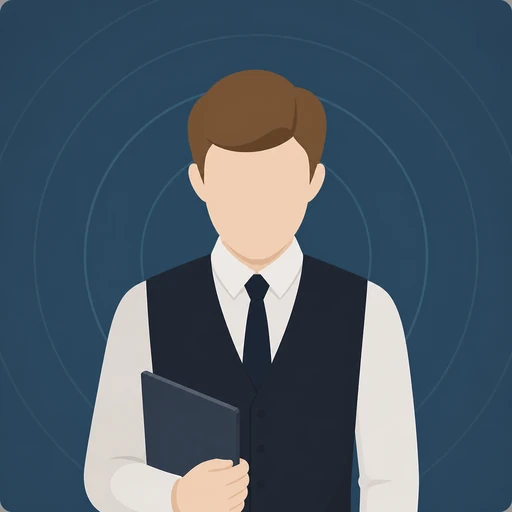
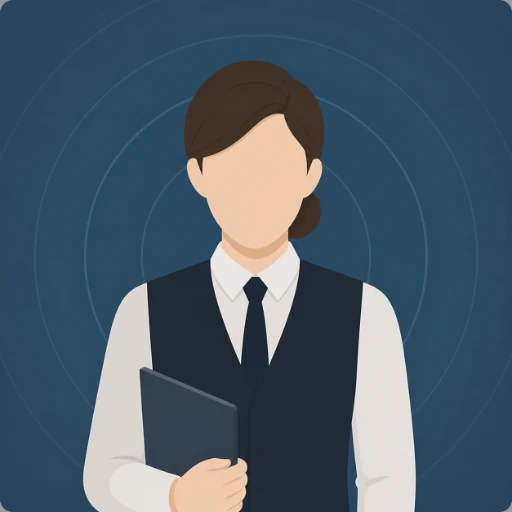
art: rebalance cast portraits and gender references

diff --git a/src/scenes/BootScene.ts b/src/scenes/BootScene.ts
@@ -29,7 +29,7 @@ export class BootScene extends Phaser.Scene {
   }
 
   preload() {
-    // Card art = the man the player is talking to; scenes only for key moments.
+    // Card art = the character the player is talking to; scenes only for key moments.
     for (const id of Object.keys(content.characters)) {
       this.load.image(`portrait:${id}`, `art/portraits/${id}.webp`);
     }

diff --git a/Card_Authoring_Pack__Incident_Aftermath_Endings.md b/Card_Authoring_Pack__Incident_Aftermath_Endings.md
@@ -153,7 +153,7 @@ Entry beat condition: `PLAYER_CAUSED` (drank ∧ self-driving).
   - ES: Tus manos están más firmes de lo que tienen derecho a estar. Dos nombres encabezan tus llamadas recientes: la línea de emergencias, y la persona que arregla las cosas.
   - ZH: 你的双手稳得有些不该。最近通话的最上面是两个名字：急救专线，和那个专门摆平事情的人。
 - `card.incident_stay.left` — EN: Call the emergency line. Now. · VI: Gọi cấp cứu. Ngay. · ES: Llamar a emergencias. Ya. · ZH: 打急救电话。马上。
-- `card.incident_stay.right` — EN: Call the Aide first. · VI: Gọi Trợ lý trước. · ES: Llamar primero al Asistente. · ZH: 先打给助理。
+- `card.incident_stay.right` — EN: Call the Aide first. · VI: Gọi Trợ lý trước. · ES: Llamar primero a la Asesora. · ZH: 先打给助理。
 
 ---
 
@@ -170,7 +170,7 @@ Entry beat condition: `PLAYER_CAUSED` (drank ∧ self-driving).
 - `card.incident_leave.text`
   - EN: Four kilometers later, the phone. The Aide, in the voice kept for real things: "Where are you right now? Something's coming over the police channel — the villa road."
   - VI: Bốn cây số sau, điện thoại reo. Trợ lý, bằng chất giọng chỉ dành cho những chuyện hệ trọng: "Sếp đang ở đâu ngay lúc này? Kênh bộ đàm cảnh sát đang báo có chuyện — đoạn đường khu biệt thự."
-  - ES: Cuatro kilómetros después, el teléfono. El Asistente, con la voz reservada para las cosas reales: «¿Dónde estás ahora mismo? Algo está saliendo por la frecuencia policial — la carretera de la villa.»
+  - ES: Cuatro kilómetros después, el teléfono. La Asesora, con la voz reservada para las cosas reales: «¿Dónde estás ahora mismo? Algo está saliendo por la frecuencia policial — la carretera de la villa.»
   - ZH: 四公里之后，电话响了。助理，用那种只留给要紧事的声音："您现在在哪儿？警用频道里正在报什么——别墅那条路。"
 - `card.incident_leave.left` — EN: Tell the truth. · VI: Nói thật. · ES: Decir la verdad. · ZH: 说实话。
 - `card.incident_leave.right` — EN: "I'm home. Why?" · VI: "Tôi ở nhà. Sao thế?" · ES: «Estoy en casa. ¿Por qué?» · ZH: "我在家。怎么了？"
@@ -194,7 +194,7 @@ Entry beat condition: `ALLY_CAUSED`. The driver is **the Mentor** — the man fr
 - `card.incident_call_b.text`
   - EN: You are home, shoes still on, when the phone rings. The Aide, in the voice kept for real things: "There's been an accident on the villa road. It's ours."
   - VI: Bạn đang ở nhà, giày còn chưa kịp cởi, thì điện thoại reo. Trợ lý, bằng chất giọng chỉ dành cho những chuyện hệ trọng: "Có tai nạn trên đoạn đường khu biệt thự. Là người của chúng ta."
-  - ES: Estás en casa, todavía con los zapatos puestos, cuando suena el teléfono. El Asistente, con la voz reservada para las cosas reales: «Hubo un accidente en la carretera de la villa. Es de los nuestros.»
+  - ES: Estás en casa, todavía con los zapatos puestos, cuando suena el teléfono. La Asesora, con la voz reservada para las cosas reales: «Hubo un accidente en la carretera de la villa. Es de los nuestros.»
   - ZH: 你到了家，鞋还没来得及脱，电话就响了。助理，用那种只留给要紧事的声音："别墅那条路上出事故了。是我们的人。"
 - `card.incident_call_b.left` — EN: "Details. Now." · VI: "Chi tiết. Ngay." · ES: «Detalles. Ya.» · ZH: "细节。马上。"
 - `card.incident_call_b.right` — EN: "Come to the office." · VI: "Đến văn phòng." · ES: «Ven a la oficina.» · ZH: "来办公室。"
@@ -214,7 +214,7 @@ Entry beat condition: `ALLY_CAUSED`. The driver is **the Mentor** — the man fr
 - `card.incident_identity_b.text`
   - EN: "The Mentor's car," the Aide says. "The riverside stretch. A young woman who was walking home." A breath. "He didn't stay. He was at your table two hours ago."
   - VI: "Xe của Người Đỡ Đầu," trợ lý nói. "Đoạn đường ven sông. Một cô gái trẻ đang trên đường đi bộ về nhà." Một hơi thở. "Ông ấy đã không ở lại. Hai tiếng trước ông ấy còn ngồi cùng bàn với sếp."
-  - ES: «El coche del Mentor», dice el Asistente. «El tramo junto al río. Una joven que iba caminando a casa.» Una respiración. «No se quedó. Hace dos horas estaba en tu mesa.»
+  - ES: «El coche del Mentor», dice la Asesora. «El tramo junto al río. Una joven que iba caminando a casa.» Una respiración. «No se quedó. Hace dos horas estaba en tu mesa.»
   - ZH: "是导师的车，"助理说。"沿河那一段。一个正走路回家的年轻女子。"一次呼吸。"他没有留在现场。两个小时前，他还和您坐在同一张桌上。"
 - `card.incident_identity_b.left` — EN: "Where is he now?" · VI: "Ông ấy giờ đang ở đâu?" · ES: «¿Dónde está él ahora?» · ZH: "他现在在哪儿？"
 - `card.incident_identity_b.right` — EN: "Where is she now?" · VI: "Cô ấy giờ đang ở đâu?" · ES: «¿Dónde está ella ahora?» · ZH: "她现在在哪儿？"
@@ -336,10 +336,10 @@ Both routes converge. Beat ladder per §1.3. Texts stay short; the temperature k
 - `card.aftermath_investigator_independent.left` — EN: Give the statement in full. · VI: Khai đầy đủ. · ES: Dar la declaración completa. · ZH: 完整陈述。
 - `card.aftermath_investigator_independent.right` — EN: Refer her to your lawyer. · VI: Bảo cô ấy làm việc với luật sư. · ES: Remitirla a tu abogado. · ZH: 让她去找你的律师。
 - `card.aftermath_investigator_controlled.text`
-  - EN: The investigator waits to be invited in. You appointed his director's director. "We'll need guidance on scope," he says, to the carpet. "Whenever convenient."
-  - VI: Điều tra viên đứng chờ được mời vào. Cấp trên của cấp trên anh ta là do bạn bổ nhiệm. "Chúng tôi sẽ cần được định hướng về phạm vi," anh ta nói, mắt nhìn xuống thảm. "Lúc nào tiện cho ngài cũng được."
-  - ES: El investigador espera a que lo inviten a pasar. Tú nombraste al director de su director. «Necesitaremos orientación sobre el alcance», dice, mirando la alfombra. «Cuando le resulte conveniente.»
-  - ZH: 调查员等着被请进门。他上司的上司是你任命的。"我们需要就调查范围听取指导，"他对着地毯说。"您什么时候方便都行。"
+  - EN: The investigator waits to be invited in. You appointed her director's director. "We'll need guidance on scope," she says, to the carpet. "Whenever convenient."
+  - VI: Điều tra viên đứng chờ được mời vào. Cấp trên của cấp trên cô ấy là do bạn bổ nhiệm. "Chúng tôi sẽ cần được định hướng về phạm vi," cô nói, mắt nhìn xuống thảm. "Lúc nào tiện cho ngài cũng được."
+  - ES: La investigadora espera a que la inviten a pasar. Tú nombraste a quien dirige a su superior. «Necesitaremos orientación sobre el alcance», dice, mirando la alfombra. «Cuando le resulte conveniente.»
+  - ZH: 调查员等着被请进门。她上司的上司是你任命的。“我们需要就调查范围听取指导，”她对着地毯说。“您什么时候方便都行。”
 - `card.aftermath_investigator_controlled.left` — EN: "No guidance. Full scope." · VI: "Không định hướng gì cả. Điều tra toàn diện." · ES: «Sin orientación. Alcance completo.» · ZH: "不需要指导。全面查。"
 - `card.aftermath_investigator_controlled.right` — EN: "Keep the scope focused." · VI: "Giữ phạm vi cho... tập trung." · ES: «Mantengan el alcance acotado.» · ZH: "范围嘛……集中一点。"
 
@@ -357,7 +357,7 @@ Both routes converge. Beat ladder per §1.3. Texts stay short; the temperature k
 - `card.aftermath_records.text`
   - EN: "They've asked for the calendar, the call logs, the gathering's guest list," the Aide says. The drawer with the other list — the one from before — is not mentioned, and is very loud about it.
   - VI: "Họ yêu cầu lịch làm việc, nhật ký cuộc gọi, danh sách khách của buổi tiệc," trợ lý nói. Ngăn kéo đựng cái danh sách kia — cái danh sách từ dạo trước — không được nhắc đến, và sự im lặng ấy vang rất to.
-  - ES: «Pidieron la agenda, el registro de llamadas, la lista de invitados de la velada», dice el Asistente. El cajón con la otra lista — la de antes — no se menciona, y hace mucho ruido al respecto.
+  - ES: «Pidieron la agenda, el registro de llamadas, la lista de invitados de la velada», dice la Asesora. El cajón con la otra lista — la de antes — no se menciona, y hace mucho ruido al respecto.
   - ZH: "他们要日程表、通话记录、那晚聚会的宾客名单，"助理说。装着另一份清单的那个抽屉——之前那份——没有被提起，而这份沉默响得很。
 - `card.aftermath_records.left` — EN: Provide all records. · VI: Giao nộp toàn bộ hồ sơ. · ES: Entregar todos los registros. · ZH: 提交全部记录。
 - `card.aftermath_records.right` — EN: Provide what is requested. · VI: Chỉ giao những gì được yêu cầu. · ES: Entregar solo lo solicitado. · ZH: 只交他们要的。
@@ -401,14 +401,14 @@ Both routes converge. Beat ladder per §1.3. Texts stay short; the temperature k
 - `card.aftermath_responsibility_a.text`
   - EN: Your statement is due at nine. The Aide has drafted three versions and placed only one on top. It is the shortest. It is also the only one written in the first person.
   - VI: Chín giờ là hạn nộp bản tường trình. Trợ lý đã soạn ba phiên bản và chỉ đặt một bản lên trên cùng. Đó là bản ngắn nhất. Và cũng là bản duy nhất được viết ở ngôi thứ nhất.
-  - ES: Tu declaración vence a las nueve. El Asistente redactó tres versiones y puso solo una encima. Es la más corta. También es la única escrita en primera persona.
+  - ES: Tu declaración vence a las nueve. La Asesora redactó tres versiones y puso solo una encima. Es la más corta. También es la única escrita en primera persona.
   - ZH: 陈述书九点前要交。助理起草了三个版本，只把一份放在最上面。那是最短的一份。也是唯一一份用第一人称写的。
 - `card.aftermath_responsibility_a.left` — EN: Confess. All of it. · VI: Nhận tội. Toàn bộ. · ES: Confesar. Todo. · ZH: 认罪。全部。
 - `card.aftermath_responsibility_a.right` — EN: Remain silent on the details. · VI: Giữ im lặng về các chi tiết. · ES: Guardar silencio sobre los detalles. · ZH: 对细节保持沉默。
 - `card.aftermath_responsibility_b.text`
   - EN: "The prosecutor's file is ready," the Aide says. "It needs one thing to move: your office declining to intervene." A pause. "And it needs one thing to stop: the opposite."
   - VI: "Hồ sơ của viện kiểm sát đã sẵn sàng," trợ lý nói. "Nó chỉ cần một điều để tiến: văn phòng mình từ chối can thiệp." Ngừng một nhịp. "Và nó cũng chỉ cần một điều để dừng: điều ngược lại."
-  - ES: «El expediente del fiscal está listo», dice el Asistente. «Necesita una cosa para avanzar: que tu oficina decline intervenir.» Una pausa. «Y necesita una cosa para detenerse: lo contrario.»
+  - ES: «El expediente del fiscal está listo», dice la Asesora. «Necesita una cosa para avanzar: que tu oficina decline intervenir.» Una pausa. «Y necesita una cosa para detenerse: lo contrario.»
   - ZH: "检方的卷宗已经齐了，"助理说。"它往前走，只需要一件事：您的办公室拒绝干预。"停顿。"它停下来，也只需要一件事：反过来。"
 - `card.aftermath_responsibility_b.left` — EN: Let the charges proceed. · VI: Để việc truy tố được tiến hành. · ES: Dejar que los cargos procedan. · ZH: 让起诉照常进行。
 - `card.aftermath_responsibility_b.right` — EN: Protect him. · VI: Che cho ông ấy. · ES: Protegerlo. · ZH: 保他。
@@ -462,21 +462,21 @@ Both choices: effects `standing +4 · power +4 · trustActual -4`
 - `card.aftermath_reformist_steady.text`
   - EN: The Reformist calls, and for once has nothing to argue. "Then let the process continue," she says. "That's all. That was always all."
   - VI: Nhà Cải Cách gọi đến, và lần đầu tiên không tranh luận gì cả. "Vậy thì hãy để quy trình tiếp tục," bà nói. "Chỉ vậy thôi. Từ đầu đến cuối cũng chỉ cần vậy thôi."
-  - ES: El Reformista llama, y por una vez no tiene nada que discutir. «Entonces deja que el proceso continúe», dice. «Eso es todo. Siempre fue solo eso.»
+  - ES: La Reformista llama, y por una vez no tiene nada que discutir. «Entonces deja que el proceso continúe», dice. «Eso es todo. Siempre fue solo eso.»
   - ZH: 改革派打来电话，头一次没有任何要争论的。"那就让程序继续走下去，"她说。"就这样。从始至终，要的也只是这样。"
 - `card.aftermath_reformist_steady.left` — EN: "Hold." · VI: "Giữ vững." · ES: «Sostener.» · ZH: "守住。"
 - `card.aftermath_reformist_steady.right` — EN: Say nothing. · VI: Không nói gì. · ES: No decir nada. · ZH: 什么也不说。
 - `card.aftermath_reformist_plea.text`
   - EN: "You still have time to stop this," the Reformist says from the doorway, not coming in. "Not to fix it. To stop adding to it. Those are different things, and you know which one is still yours."
   - VI: "Anh vẫn còn kịp dừng chuyện này lại," Nhà Cải Cách nói từ ngưỡng cửa, không bước vào. "Không phải để sửa nó. Mà để thôi chất chồng thêm lên nó. Hai điều đó khác nhau — và anh biết điều nào vẫn còn nằm trong tay anh."
-  - ES: «Todavía tienes tiempo de detener esto», dice el Reformista desde el umbral, sin entrar. «No de arreglarlo. De dejar de sumarle. Son cosas distintas, y sabes cuál de las dos sigue siendo tuya.»
+  - ES: «Todavía tienes tiempo de detener esto», dice la Reformista desde el umbral, sin entrar. «No de arreglarlo. De dejar de sumarle. Son cosas distintas, y sabes cuál de las dos sigue siendo tuya.»
   - ZH: "你还来得及让这件事停下来，"改革派站在门口说，没有进来。"不是去弥补它。是别再往上面加了。这是两回事——而你知道，哪一件还在你手里。"
 - `card.aftermath_reformist_plea.left` — EN: Close the door. · VI: Đóng cửa lại. · ES: Cerrar la puerta. · ZH: 关上门。
 - `card.aftermath_reformist_plea.right` — EN: Let her in. · VI: Mời bà ấy vào. · ES: Dejarla entrar. · ZH: 请她进来。
 - `card.aftermath_aide_substitute.text`
   - EN: The Aide stays after hours again, the old list somewhere in a drawer. "I'm not the person who was supposed to say this to you. That person isn't here anymore." A breath. "So: you can still stop adding to it."
   - VI: Trợ lý lại nán lại sau giờ làm, bản danh sách cũ nằm đâu đó trong ngăn kéo. "Tôi không phải là người lẽ ra phải nói với sếp điều này. Người đó không còn ở đây nữa." Một hơi thở. "Vậy nên: sếp vẫn có thể thôi chất chồng thêm lên nó."
-  - ES: El Asistente se queda otra vez fuera de horario, la vieja lista en algún cajón. «No soy la persona que debía decirte esto. Esa persona ya no está.» Una respiración. «Así que: todavía puedes dejar de sumarle.»
+  - ES: La Asesora se queda otra vez fuera de horario, la vieja lista en algún cajón. «No soy la persona que debía decirte esto. Esa persona ya no está.» Una respiración. «Así que: todavía puedes dejar de sumarle.»
   - ZH: 助理又一次留到了下班之后，那份旧清单还在某个抽屉里。"本来该对您说这些话的，不是我。那个人已经不在了。"一次呼吸。"所以：您还可以别再往上面加了。"
 - `card.aftermath_aide_substitute.left` — EN: "Say it anyway." · VI: "Cứ nói đi." · ES: «Dilo de todos modos.» · ZH: "你说吧。"
 - `card.aftermath_aide_substitute.right` — EN: "That will be all." · VI: "Vậy thôi. Cậu về đi." · ES: «Eso es todo.» · ZH: "没你的事了。"

diff --git a/Card_Authoring_Pack__ActIII.md b/Card_Authoring_Pack__ActIII.md
@@ -265,7 +265,7 @@ All cards: `act: "power"`. Consequence cards (048-tier resolution is by conditio
 - `card.act3_reformist_confrontation.text`
   - EN: "You used to argue that rules mattered even when they were inconvenient," the Reformist says — on the record, microphones live. "I'm quoting your first speech. I'll keep quoting it, every session, until one of us stops being here."
   - VI: "Anh từng lập luận rằng luật lệ vẫn quan trọng ngay cả khi nó gây bất tiện," Nhà Cải Cách nói — công khai, trước micro đang thu. "Tôi đang trích lại bài phát biểu đầu tiên của anh đấy. Và tôi sẽ tiếp tục trích nó, kỳ họp nào cũng trích, cho đến khi một trong hai ta không còn ngồi ở đây nữa."
-  - ES: «Antes sostenías que las reglas importaban incluso cuando eran inconvenientes», dice el Reformista — en actas, con los micrófonos abiertos. «Estoy citando tu primer discurso. Seguiré citándolo, sesión tras sesión, hasta que uno de los dos deje de estar aquí.»
+  - ES: «Antes sostenías que las reglas importaban incluso cuando eran inconvenientes», dice la Reformista — en actas, con los micrófonos abiertos. «Estoy citando tu primer discurso. Seguiré citándolo, sesión tras sesión, hasta que uno de los dos deje de estar aquí.»
   - ZH: "你曾经主张，规则即使不方便，也依然重要，"改革派说——记录在案，麦克风开着。"我引用的是你的第一次演讲。我会一直引用下去，每一次会议都引用，直到我们两个人中有一个不再坐在这里。"
 - `card.act3_reformist_confrontation.left`
   - EN: Let the criticism continue. · VI: Cứ để họ chỉ trích. · ES: Dejar que la crítica continúe. · ZH: 让批评继续。
@@ -293,7 +293,7 @@ All cards: `act: "power"`. Consequence cards (048-tier resolution is by conditio
 - `card.act3_reformist_cooperation.text`
   - EN: "The independence bill is ready," the Reformist says. "Every month we wait, someone new owes someone something. Timing won't get better. It only gets more owed."
   - VI: "Dự luật độc lập điều tra đã sẵn sàng," Nhà Cải Cách nói. "Mỗi tháng chúng ta chờ thêm là lại có thêm người mới nợ một ai đó điều gì đó. Thời điểm sẽ không tốt lên đâu. Nó chỉ ngày càng nhiều nợ hơn thôi."
-  - ES: «El proyecto de independencia está listo», dice el Reformista. «Cada mes que esperamos, alguien nuevo le debe algo a alguien. El momento no va a mejorar. Solo se va a deber más.»
+  - ES: «El proyecto de independencia está listo», dice la Reformista. «Cada mes que esperamos, alguien nuevo le debe algo a alguien. El momento no va a mejorar. Solo se va a deber más.»
   - ZH: "独立调查法案已经准备好了，"改革派说。"我们每多等一个月，就多一个新的人欠下另一个人什么。时机不会变得更好。只会欠得更多。"
 - `card.act3_reformist_cooperation.left`
   - EN: Push it now. · VI: Thúc đẩy ngay bây giờ. · ES: Impulsarlo ahora. · ZH: 现在就推进。
@@ -653,14 +653,14 @@ Both: speaker: `reformist` · weight: 6 · once: true · minTurn (act): 11. **If
 - `card.act3_reformist_farewell_ally.text`
   - EN: The Reformist catches you on the chamber steps. "The authority exists now, or it doesn't — either way, my part is done." A hand briefly on your arm. "If something ever happens near you, let the process hold. That's all any of it was for."
   - VI: Nhà Cải Cách bắt kịp bạn trên bậc thềm nghị trường. "Cơ quan độc lập giờ hoặc đã tồn tại, hoặc không — đằng nào thì phần việc của tôi cũng xong rồi." Một bàn tay đặt thoáng lên cánh tay bạn. "Nếu một ngày nào đó có chuyện xảy ra sát bên anh, hãy để quy trình đứng vững. Mọi thứ chúng ta làm là vì đúng khoảnh khắc ấy thôi."
-  - ES: El Reformista te alcanza en las escalinatas de la cámara. «La autoridad existe ahora, o no existe — de cualquier modo, mi parte está hecha.» Una mano breve en tu brazo. «Si algún día pasa algo cerca de ti, deja que el proceso se sostenga. Para eso era todo.»
+  - ES: La Reformista te alcanza en las escalinatas de la cámara. «La autoridad existe ahora, o no existe — de cualquier modo, mi parte está hecha.» Una mano breve en tu brazo. «Si algún día pasa algo cerca de ti, deja que el proceso se sostenga. Para eso era todo.»
   - ZH: 改革派在议会台阶上赶上了你。"独立机构现在要么已经存在，要么不存在——无论哪样，我的部分都做完了。"一只手在你手臂上短暂停留。"如果有一天，什么事发生在你身边，让程序自己站住。我们做的这一切，就是为了那一刻。"
 - `card.act3_reformist_farewell_ally.left` — EN: "Whatever happens — hold the line." · VI: "Dù có chuyện gì — hãy giữ vững phòng tuyến." · ES: «Pase lo que pase — mantén la línea.» · ZH: "无论发生什么——守住底线。"
 - `card.act3_reformist_farewell_ally.right` — EN: Say nothing. · VI: Không nói gì. · ES: No decir nada. · ZH: 什么也不说。
 - `card.act3_reformist_farewell_opposition.text`
   - EN: "I'm moving to the opposition benches," the Reformist says. "I'll vote against you on everything now. It isn't personal." A pause at the door. "That's the problem I've been trying to explain. Nothing here is personal anymore. Not even you."
   - VI: "Tôi sẽ chuyển sang hàng ghế đối lập," Nhà Cải Cách nói. "Từ giờ tôi sẽ bỏ phiếu chống lại anh trong mọi việc. Không phải chuyện cá nhân đâu." Một nhịp dừng nơi khung cửa. "Đó chính là vấn đề tôi cố giải thích bấy lâu. Ở đây chẳng còn gì là cá nhân nữa cả. Kể cả chính anh."
-  - ES: «Me paso a la bancada de oposición», dice el Reformista. «Votaré contra ti en todo desde ahora. No es personal.» Una pausa en la puerta. «Ese es el problema que he intentado explicar. Aquí ya nada es personal. Ni siquiera tú.»
+  - ES: «Me paso a la bancada de oposición», dice la Reformista. «Votaré contra ti en todo desde ahora. No es personal.» Una pausa en la puerta. «Ese es el problema que he intentado explicar. Aquí ya nada es personal. Ni siquiera tú.»
   - ZH: "我要转去反对派席位了，"改革派说。"从现在起，任何议题我都会投票反对你。这不是针对个人。"在门口停了一下。"这正是我一直想说明的问题。这里已经没有任何东西是'个人'的了。连你也不是。"
 - `card.act3_reformist_farewell_opposition.left` — EN: "Understood." · VI: "Tôi hiểu." · ES: «Entendido.» · ZH: "明白了。"
 - `card.act3_reformist_farewell_opposition.right` — EN: "You'll lose." · VI: "Anh sẽ thua thôi." · ES: «Vas a perder.» · ZH: "你会输的。"

diff --git a/Card_Authoring_Pack__Act0_ActI.md b/Card_Authoring_Pack__Act0_ActI.md
@@ -68,8 +68,8 @@ Magnitude bands used in this pack: small = 2–3, medium = 4–6, large = 7+ (la
 | `mentor` | The Mentor | Người Đỡ Đầu | El Mentor | 导师 |
 | `businessman` | The Businessman | Doanh Nhân | El Empresario | 商人 |
 | `editor` | The Editor | Tổng Biên Tập | El Editor | 总编 |
-| `reformist` | The Reformist | Nhà Cải Cách | El Reformista | 改革派 |
-| `aide` | The Aide | Trợ Lý | El Asistente | 助理 |
+| `reformist` | The Reformist | Nhà Cải Cách | La Reformista | 改革派 |
+| `aide` | The Aide | Trợ Lý | La Asesora | 助理 |
 
 (`minister` first appears in Act II — not used in this pack.)
 
@@ -459,10 +459,10 @@ All Act I cards: `act: "rise"`. Cards 007 and 021 are beats (`type: "story"`); 0
 
 **Strings**
 - `card.act1_constituent_case_callback.text`
-  - EN: The complete file arrives, heavier than expected. The audit confirms it: three valuations, two signatures that don't match, and one official who has since been promoted. Your aide waits by the door.
-  - VI: Bộ hồ sơ đầy đủ được chuyển đến, dày hơn dự đoán. Kết quả rà soát xác nhận: ba mức định giá, hai chữ ký không khớp, và một cán bộ liên quan thì vừa mới được thăng chức. Trợ lý của bạn đứng chờ bên cửa.
-  - ES: El expediente completo llega, más pesado de lo esperado. La revisión lo confirma: tres avalúos, dos firmas que no coinciden y un funcionario que desde entonces fue ascendido. Tu asistente espera junto a la puerta.
-  - ZH: 完整的案卷送到了，比想象中更厚。核查结果证实：三种估价、两处对不上的签名，还有一位事后升了职的官员。你的助理在门边等着。
+  - EN: The complete file arrives, heavier than expected. The audit confirms it: three valuations, two signatures that don't match, and one official who has since been promoted. Your aide waits by the door, her notes already clipped to the cover.
+  - VI: Bộ hồ sơ đầy đủ được chuyển đến, dày hơn dự đoán. Kết quả rà soát xác nhận: ba mức định giá, hai chữ ký không khớp, và một cán bộ liên quan thì vừa mới được thăng chức. Trợ lý của bạn đứng chờ bên cửa, ghi chú của cô ấy đã được kẹp sẵn trên bìa.
+  - ES: El expediente completo llega, más pesado de lo esperado. La revisión lo confirma: tres avalúos, dos firmas que no coinciden y un funcionario que desde entonces fue ascendido. Tu asesora espera junto a la puerta, con sus notas ya sujetas a la portada.
+  - ZH: 完整的案卷送到了，比想象中更厚。核查结果证实：三种估价、两处对不上的签名，还有一位事后升了职的官员。你的助理在门边等着，她的笔记已经夹在封面上。
 - `card.act1_constituent_case_callback.left`
   - EN: Publish the findings. · VI: Công bố kết quả. · ES: Publicar los hallazgos. · ZH: 公布核查结果。
 - `card.act1_constituent_case_callback.right`
@@ -516,7 +516,7 @@ All Act I cards: `act: "rise"`. Cards 007 and 021 are beats (`type: "story"`); 0
 - `card.act1_reformist_bill_intro.text`
   - EN: "Procurement disclosure," the Reformist says, sliding a draft across your desk. "Every contract above the threshold, published within thirty days. Half the chamber will hate it — the important half."
   - VI: "Công khai mua sắm công," Nhà Cải Cách nói, đẩy bản thảo qua mặt bàn. "Mọi hợp đồng trên ngưỡng quy định đều phải công bố trong vòng ba mươi ngày. Nửa nghị trường sẽ ghét dự luật này — cái nửa quan trọng."
-  - ES: «Divulgación de contrataciones públicas», dice el Reformista, deslizando un borrador sobre tu escritorio. «Todo contrato por encima del umbral, publicado en treinta días. La mitad de la cámara lo odiará — la mitad importante.»
+  - ES: «Divulgación de contrataciones públicas», dice la Reformista, deslizando un borrador sobre tu escritorio. «Todo contrato por encima del umbral, publicado en treinta días. La mitad de la cámara lo odiará — la mitad importante.»
   - ZH: "公共采购公开，"改革派把草案推过桌面。"超过限额的合同，三十天内一律公示。半个议会会恨这个法案——是重要的那一半。"
 - `card.act1_reformist_bill_intro.left`
   - EN: Co-sponsor it publicly. · VI: Công khai đồng bảo trợ. · ES: Copatrocinarlo públicamente. · ZH: 公开联署。
@@ -797,7 +797,7 @@ All Act I cards: `act: "rise"`. Cards 007 and 021 are beats (`type: "story"`); 0
 - `card.act1_reformist_warning.text`
   - EN: The Reformist falls into step beside you. "You get things done. I've noticed — everyone has. Efficiency is useful. It also becomes a habit very quickly, and habits get inherited by people worse than you."
   - VI: Nhà Cải Cách sải bước song song với bạn. "Anh làm được việc. Tôi để ý rồi — mà ai cũng để ý cả. Sự hiệu quả rất hữu ích. Nhưng nó cũng thành thói quen rất nhanh, và thói quen thì sẽ được kế thừa bởi những kẻ tệ hơn anh."
-  - ES: El Reformista se pone a caminar a tu lado. «Consigues resultados. Lo he notado — todos lo han notado. La eficiencia es útil. También se vuelve hábito muy rápido, y los hábitos los heredan personas peores que tú.»
+  - ES: La Reformista se pone a caminar a tu lado. «Consigues resultados. Lo he notado — todos lo han notado. La eficiencia es útil. También se vuelve hábito muy rápido, y los hábitos los heredan personas peores que tú.»
   - ZH: 改革派与你并肩而行。"你办事很有效率。我注意到了——所有人都注意到了。效率很有用，但它也会很快变成习惯，而习惯，会被比你更糟的人继承下去。"
 - `card.act1_reformist_warning.left`
   - EN: Acknowledge the concern. · VI: Ghi nhận lời nhắc. · ES: Reconocer la preocupación. · ZH: 接受这份提醒。

diff --git a/Card_Authoring_Pack__ActII.md b/Card_Authoring_Pack__ActII.md
@@ -383,7 +383,7 @@ All cards: `act: "network"`. Event-resolved consequence cards (022, 025, 028, 03
 - `card.act2_reformist_strong_bill.text`
   - EN: "The disclosure bill has grown teeth," the Reformist says. "Full contract publication, subcontractors included, no exemptions for 'strategic' projects. Last time, you supported the idea. This is the idea — without the escape hatches."
   - VI: "Dự luật công khai giờ đã mọc răng," Nhà Cải Cách nói. "Công bố toàn bộ hợp đồng, tính cả nhà thầu phụ, không ngoại lệ cho các dự án 'chiến lược.' Lần trước anh ủng hộ ý tưởng này. Còn đây chính là ý tưởng đó — nhưng đã bịt hết các lối thoát hiểm."
-  - ES: «El proyecto de divulgación ya tiene dientes», dice el Reformista. «Publicación completa de contratos, subcontratistas incluidos, sin exenciones para proyectos "estratégicos". La última vez apoyaste la idea. Esta es la idea — sin las salidas de emergencia.»
+  - ES: «El proyecto de divulgación ya tiene dientes», dice la Reformista. «Publicación completa de contratos, subcontratistas incluidos, sin exenciones para proyectos "estratégicos". La última vez apoyaste la idea. Esta es la idea — sin las salidas de emergencia.»
   - ZH: "公开法案这回长出牙齿了，"改革派说。"合同全文公示，分包商也算在内，'战略'项目不设豁免。上次你支持的是这个想法。现在摆在这里的就是这个想法——只是堵死了所有逃生口。"
 - `card.act2_reformist_strong_bill.left`
   - EN: Support full disclosure. · VI: Ủng hộ công khai toàn bộ. · ES: Apoyar la divulgación completa. · ZH: 支持全面公开。
@@ -596,7 +596,7 @@ All cards: `act: "network"`. Event-resolved consequence cards (022, 025, 028, 03
 - `card.act2_investigation_independence.text`
   - EN: "Last one," the Reformist says. "Investigators appointed to fixed terms, removable only by court order. It means no office can reach into an inquiry again. Including yours."
   - VI: "Điều cuối cùng," Nhà Cải Cách nói. "Điều tra viên được bổ nhiệm theo nhiệm kỳ cố định, chỉ toà án mới có quyền bãi nhiệm. Nghĩa là từ nay không văn phòng nào với tay vào được một cuộc điều tra nữa. Kể cả văn phòng của anh."
-  - ES: «La última», dice el Reformista. «Investigadores nombrados por períodos fijos, removibles solo por orden judicial. Significa que ninguna oficina podrá volver a meter la mano en una investigación. Incluida la tuya.»
+  - ES: «La última», dice la Reformista. «Investigadores nombrados por períodos fijos, removibles solo por orden judicial. Significa que ninguna oficina podrá volver a meter la mano en una investigación. Incluida la tuya.»
   - ZH: "最后一条，"改革派说。"调查员实行固定任期，只有法院才能将其免职。这意味着从此没有任何一个办公室能再把手伸进调查里。包括你的。"
 - `card.act2_investigation_independence.left`
   - EN: Back the proposal. · VI: Ủng hộ đề xuất. · ES: Respaldar la propuesta. · ZH: 支持这项提案。
